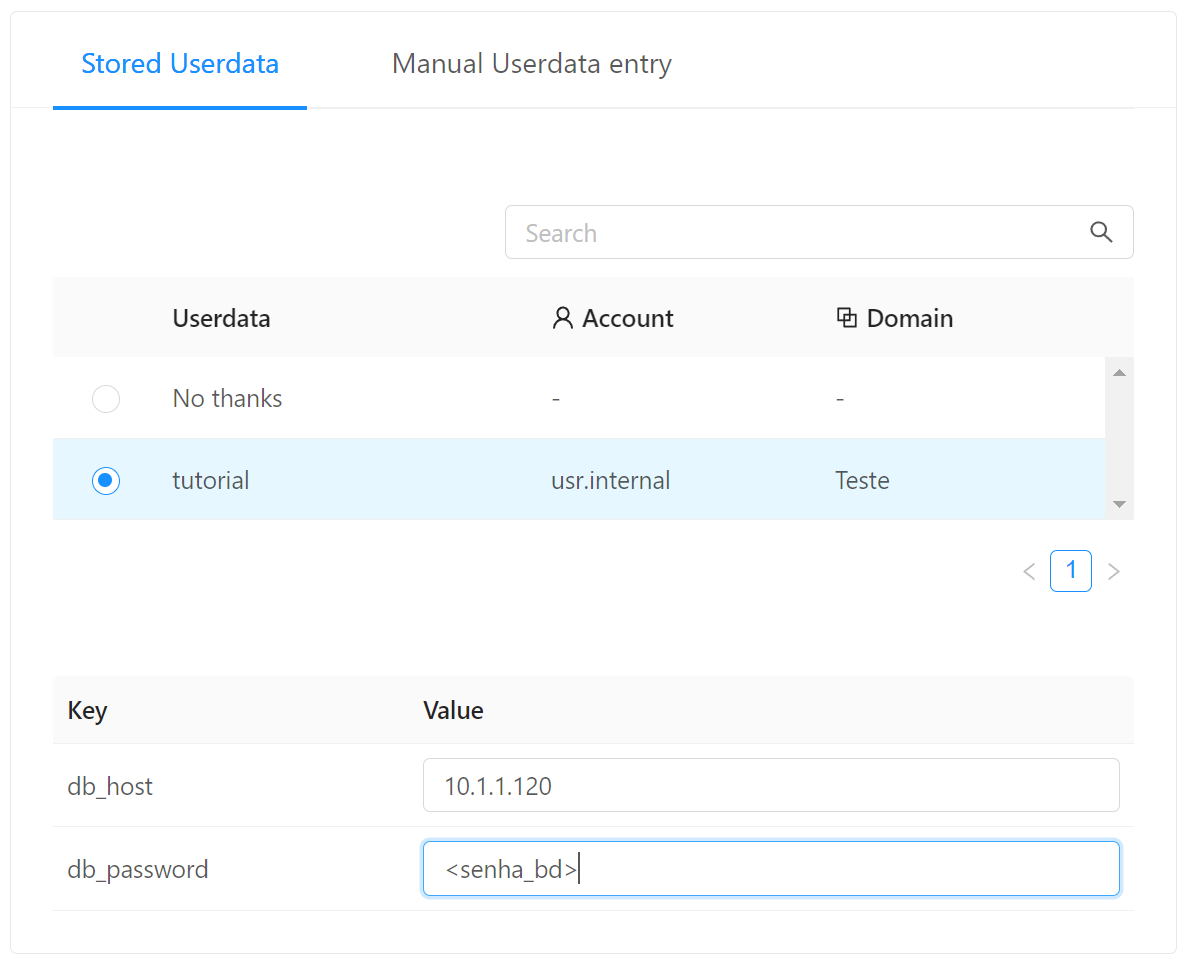
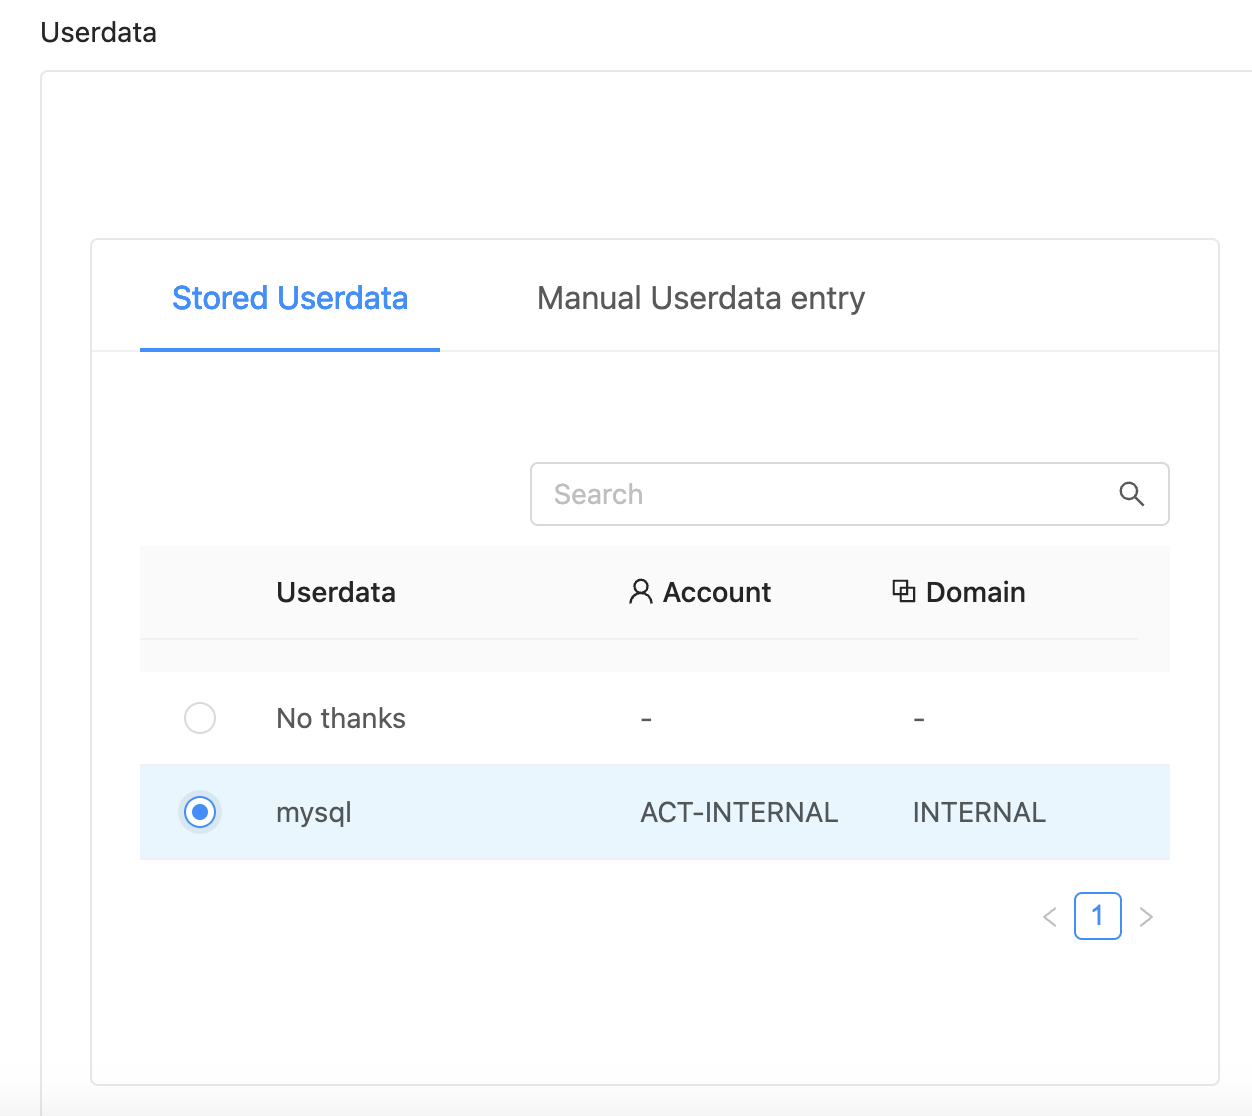
updates

diff --git a/docs/templates.md b/docs/templates.md
@@ -1,4 +1,4 @@
-# Templates e Userdata
+# Templates
 
 Neste passo demonstraremos:
 
@@ -15,8 +15,7 @@ Utilizaremos os recursos criados no passo anterior, [DR e Snapshots](snapshots.m
 Usando o _port forwarding_ configurado anteriormente entre via SSH no servidor _web_:
 
 ```bash
-# Substitua o endereço IP abaixo pelo que foi configurado com port forwarding anteriormente
-ssh root@200.234.208.5 -p 22000
+ssh root@xIP_FWDx -p 22000
 ```
 
 E instale o PHP para Apache:
@@ -33,7 +32,11 @@ phpinfo();
 EOF
 ```
 
-E acesse `http://200.234.208.120/info.php` (aqui usamos o IP mapeado via _Static NAT_ para a instância _web_).
+E acesse:
+```
+http://xIP_WEBx/info.php
+```
+(aqui usamos o IP mapeado via _Static NAT_ para a instância _web_).
 
 Agora criaremos nossa aplicação, que lista a tabela `todo_list`:
 
@@ -46,10 +49,10 @@ Copie o conteúdo, substituindo o endereço IP pelo do servidor _bd_, que pode s
 ```php
 <?php
 $user = "example_user";
-$password = "<senha_bd>";
+$password = "xSENHA_BDx";
 $database = "example_database";
 $table = "todo_list";
-$host = "10.1.1.120"; // Coloque o IP privado do servidor bd no CloudStack
+$host = "xIP_BDx"; // Coloque o IP privado do servidor bd no CloudStack
 
 try {
   $db = new PDO("mysql:host=$host;dbname=$database", $user, $password);
@@ -68,7 +71,11 @@ try {
 !!! tip "Dica"
     Note que usamos o IP privado do bd, pois o servidor web o acessa pela rede privada. Com isso, não precisamos expor o bd para a rede pública.
 
-E acesse `http://200.234.208.120/todo.php` (use o IP mapeado via _Static NAT_ para a instância _web_).
+E acesse:
+```
+http://xIP_WEBx/todo.php
+```
+(use o IP mapeado via _Static NAT_ para a instância _web_).
 
 ### Página com CPU alta
 
@@ -97,112 +104,27 @@ echo "Current Time: " . date('H:i:s');
 ?>
 ```
 
-Teste a página fazendo refresh no endereço `http://200.234.208.120/cpu.php` algumas vezes e vendo o resultado mudar (use o IP mapeado via _Static NAT_ para a instância _web_).
-
-## Userdata
-
-No código acima, o endereço do _host_ do banco de dados e a senha estão hardcoded, impedindo que o servidor sirva de _template_ para deployment em outros ambientes ou que seja replicado para _load balancing_.
-
-Então:
-
-1. Edite o arquivo `/var/www/html/todo.php` para:
-```php
-<?php
-include '/var/www/config.php'; // Linha acrescentada
-
-$user = "example_user";
-$password = DB_PASSWORD; // Valor hardcoded substituído por uma variável
-$database = "example_database";
-$table = "todo_list";
-$host = DB_HOST; // Valor hardcoded substituído por uma variável
-
-try {
-  $db = new PDO("mysql:host=$host;dbname=$database", $user, $password);
-  echo "<h2>TODO</h2><ol>"; 
-  foreach($db->query("SELECT content FROM $table") as $row) {
-    echo "<li>" . $row['content'] . "</li>";
-  }
-  echo "</ol>";
-} catch (PDOException $e) {
-    print "Error!: " . $e->getMessage() . "<br/>";
-    die();
-}
-?>
+Teste a página fazendo refresh no endereço abaixo algumas vezes e vendo o resultado mudar:
 ```
-
-2. Crie um novo arquivo fora da raiz do site:
-```bash
-nano /var/www/config.php
+http://xIP_WEBx/cpu.php
 ```
-Insira o conteúdo (use o IP e senha do seu banco de dados):
-```php
-<?php
-define('DB_HOST', '10.1.1.120'); // Coloque o IP privado do servidor bd no CloudStack
-define('DB_PASSWORD', '<senha_bd>');
-?>
-```
-E proteja as permissões:
-```bash
-chown www-data:www-data /var/www/config.php
-chmod 600 /var/www/config.php
-```
-Acesse novamente `http://200.234.208.120/todo.php` para testar (use o IP mapeado via _Static NAT_ para a instância _web_).
-
-3. Finalmente, apague o arquivo criado:
-```bash
-rm /var/www/config.php
-cloud-init clean
-```
-Note que a aplicação quebrou. O segundo comando instrui o servidor a carregar o _Userdata_ no próximo boot.
-
-4. No menu de navegação à esquerda clique em __Compute__, __Instances__ e clique na instância _web_
-5. Clique no botão __Stop instance__ e confirme.
-![Stop instance](stop.png)
-6. Clique no botão __Edit instance__
-![Edit instance](edit.png)
-7. No campo __Userdata__, cole, substituindo o IP interno do servidor _bd_:
-```yaml
-#cloud-config
-
-write_files:
-  - path: /var/www/config.php
-    content: |
-      <?php
-      // Use o IP privado do servidor bd no CloudStack
-      define('DB_HOST', '10.1.1.120');
-      define('DB_PASSWORD', '<senha_bd>');
-      ?>
-    owner: "www-data:www-data"
-    permissions: '0600'
-```
-![Userdata](userdata.png)
-8. Reinicie o servidor. Após aguardar alguns instantes:
-    - Reinicie a sessão SSH e verifique que o arquivo `var/www/config.php` tem o conteúdo conforme acima
-    - __Verifique que a página funciona normalmente__
-
-!!! question "O que fizemos até agora?"
-    Recapitulando:
-
-    - Separamos as configurações num arquivo `config.php` à parte, fora da raiz do site
-    - Usamos o mecanismo de _cloud-init_ para carregar as configurações a partir de uma definição na instância.
-    - __O que falta__: agora transformaremos a instância num __template__ sem configurações. Este template poderá ser carregado com diferentes campos de _Userdata_ refletindo diferentes configurações, exemplo, _dev_, _staging_, _production_  
 
 ## Criação do template
 
-1. Não queremos configurações no template, portanto execute via SSH na instância _web_:
+Agora criaremos um _template_ a partir do qual novas instâncias podem ser criadas dinamicamente.
+
+1. Para limpar vestígios de carregamento do _cloud-init_:
 ```bash
-rm /var/www/config.php
 cloud-init clean --logs
 ```
-O segundo comando limpa vestígios de carregamentos anteriores do _cloud-init_.
 
-2. Pare a instância.
+1. Pare a instância _web_ (__Stop instance__).
 
-3. No menu de navegação à esquerda clique em __Compute__, __Instances__, clique na instância _web_ e em __Volumes__. Clique no link do volume (_ROOT-XXXX_)
+2. No menu de navegação à esquerda clique em __Compute__, __Instances__, clique na instância _web_ e em __Volumes__. Clique no link do volume (_ROOT-XXXX_)
 ![Volumes](volumes.png)
-4. No canto superior direito, selecione __Create template from volume__
+1. No canto superior direito, selecione __Create template from volume__
 ![Create template from volume](template-from-volume.png)
-5. Preencha da seguinte forma e dê OK:
+1. Preencha da seguinte forma e dê OK:
 ![To Do template](todo-template.png)
 
 ## Userdata com variáveis

diff --git a/docs/snapshots.md b/docs/snapshots.md
@@ -4,7 +4,7 @@ Neste passo demonstraremos como usar __Snapshots__ e __VM Snapshots__ para diver
 
 Usaremos como exemplo um servidor de banco de dados MySQL.
 
-Utilizaremos alguns recursos criados no passo anterior, [Compute e Networking](compute.md). Execute-o se ainda não o fez.
+Utilizaremos alguns recursos criados nos passo anteriores, [Compute e Networking](compute.md) e [User-data](userdata.md). Execute-os se ainda não o fez.
 
 ## Banco de dados
 
@@ -21,7 +21,9 @@ Para suportar a aplicação que criaremos a seguir, precisamos de um banco de da
 6. Em __Networks__ escolha a rede que criou, _minha-rede_
 7. Em __SSH key pairs__ escolha a chave criada no passo anterior, por exemplo, _minha-chave_
 ![SSH key pairs](choose-keypair.png)
-8. Coloque o nome _bd_ e clique __Launch instance__
+8. Habilite __Show advanced settings__ e, em __Stored Userdata__, selecione o _user data_ criado na seção anterior, _mysql_
+![Stored Userdata](stored-userdata.png)
+9.  Coloque o nome _bd_ e clique __Launch instance__
 
 ### Port forwarding
 
@@ -46,7 +48,7 @@ Acesse a aba __Port forwarding__ e adicione as entradas:
 !!! info
     Note como podemos usar portas externas distintas (_22000_ e _22001_) como mesmo IP público para acessar serviços distintos (_web_ e _bd_) que possuem a mesma porta (22) no _back-end_.
 
-### Instalação do MySQL e banco
+### Acompanhamento da instalação
 
 Agora acesse o servidor de banco de dados, lembrando de usar a porta _22001_:
 
@@ -55,20 +57,11 @@ Agora acesse o servidor de banco de dados, lembrando de usar a porta _22001_:
 ssh root@xIP_FWDx -p 22001
 ```
 
-Para instalar o MySQL:
+O servidor deverá executar as instruções do _user data_ associado a ele, para instalação do _MySQL_ e demais configurações. Acompanhe com os comandos:
 
 ```bash
-apt update
-apt install mysql-server
-```
-
-Para permitir conexões da rede, edite o arquivo:
-```bash
-nano /etc/mysql/mysql.conf.d/mysqld.cnf
-```
-E altere o `bind-address` de `127.0.0.1` para `0.0.0.0` reiniciando em seguida:
-```bash
-systemctl restart mysql.service
+cloud-init status # aguarde até obter 'status: done'
+systemctl status mysql # aguarde até obter status do serviço 'running'
 ```
 
 Finalmente, para criar o banco:
@@ -156,6 +149,8 @@ SELECT * FROM todo_list;
     Em resumo: Criamos um snapshot do volume raiz de uma instância, a partir do _snapshot_ um _template_ e, do _template_, uma nova instância:
 
     Instância :arrow_forward: _snapshot_ :arrow_forward: _template_ :arrow_forward: nova instância
+
+    Note, também, que não foi necessário configurar _user data_ na nova instância pois as configurações já estavam no _template_.
 
 ## VM Snapshot
 

diff --git a/docs/userdata.md b/docs/userdata.md
@@ -1,0 +1,45 @@
+# User Data
+
+Uma forma simples e leve de inicializar a configuração de instâncias é através do _cloud-init_, que lê configurações de [user data](https://cloudinit.readthedocs.io/en/latest/reference/examples.html) configuradas no _cloud provider_.
+
+As imagens padrão do CloudStack já vêm com o _cloud-init_ configurado. Basta criar _user datas_
+e associá-los às instâncias desejadas.
+
+## Criação de User Data
+
+Clique em __User Data__, __Register a userdata +__. Dê o nome de _mysql_ e conteúdo:
+
+```yaml
+#cloud-config
+timezone: America/Sao_Paulo
+package_update: true
+package_upgrade: true
+
+packages:
+  - mysql-server
+  - unattended-upgrades
+
+write_files:
+  - path: /etc/apt/apt.conf.d/99auto-upgrades-reboot
+    content: |
+      Unattended-Upgrade::Automatic-Reboot "true";
+      Unattended-Upgrade::Automatic-Reboot-Time "02:00";
+
+runcmd:
+  - systemctl restart unattended-upgrades
+  - sed -i 's/^bind-address.*=.*127.0.0.1/bind-address = 0.0.0.0/' /etc/mysql/mysql.conf.d/mysqld.cnf
+  - systemctl restart mysql
+```
+![User-data](userdata.png)
+
+O efeito do _user data_ acima é, na instalação do servidor:
+
+- configurar o fuso de São Paulo
+- atualizar o banco de dados do `apt` e executar `apt upgrade` 
+- instalar os pacotes `mysql-server` e `unattended-upgrades`
+- habilitar _reboot_ automático em upgrades, se necessário
+- habilitar o _MySQL_ a atender requsições externas
+
+Ou seja, para instâncias que utilizem este _user data_ será provisionado um servidor de banco de dados MySQL com atualizações automáticas.
+
+Leia a [documentação](https://cloudinit.readthedocs.io/en/latest/reference/examples.html) para entender todas as opções disponíveis para o _user data_.
